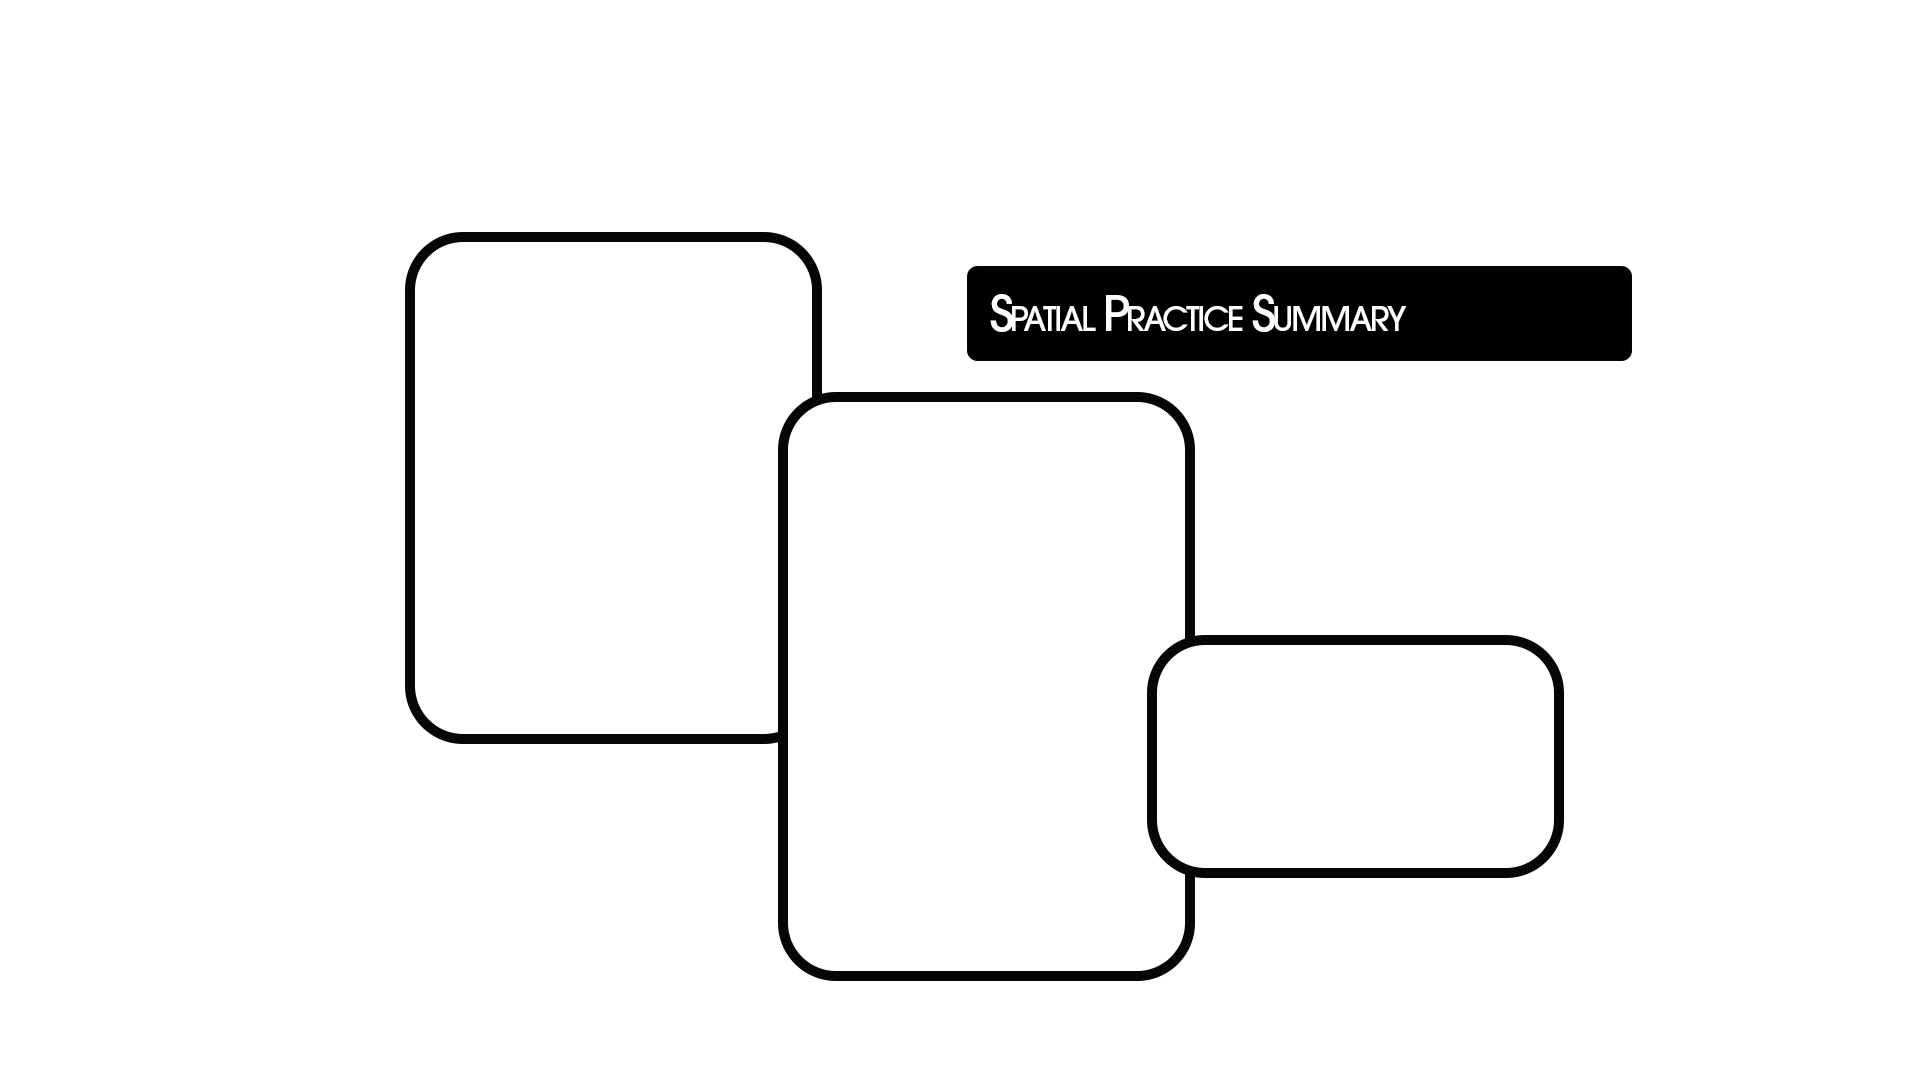
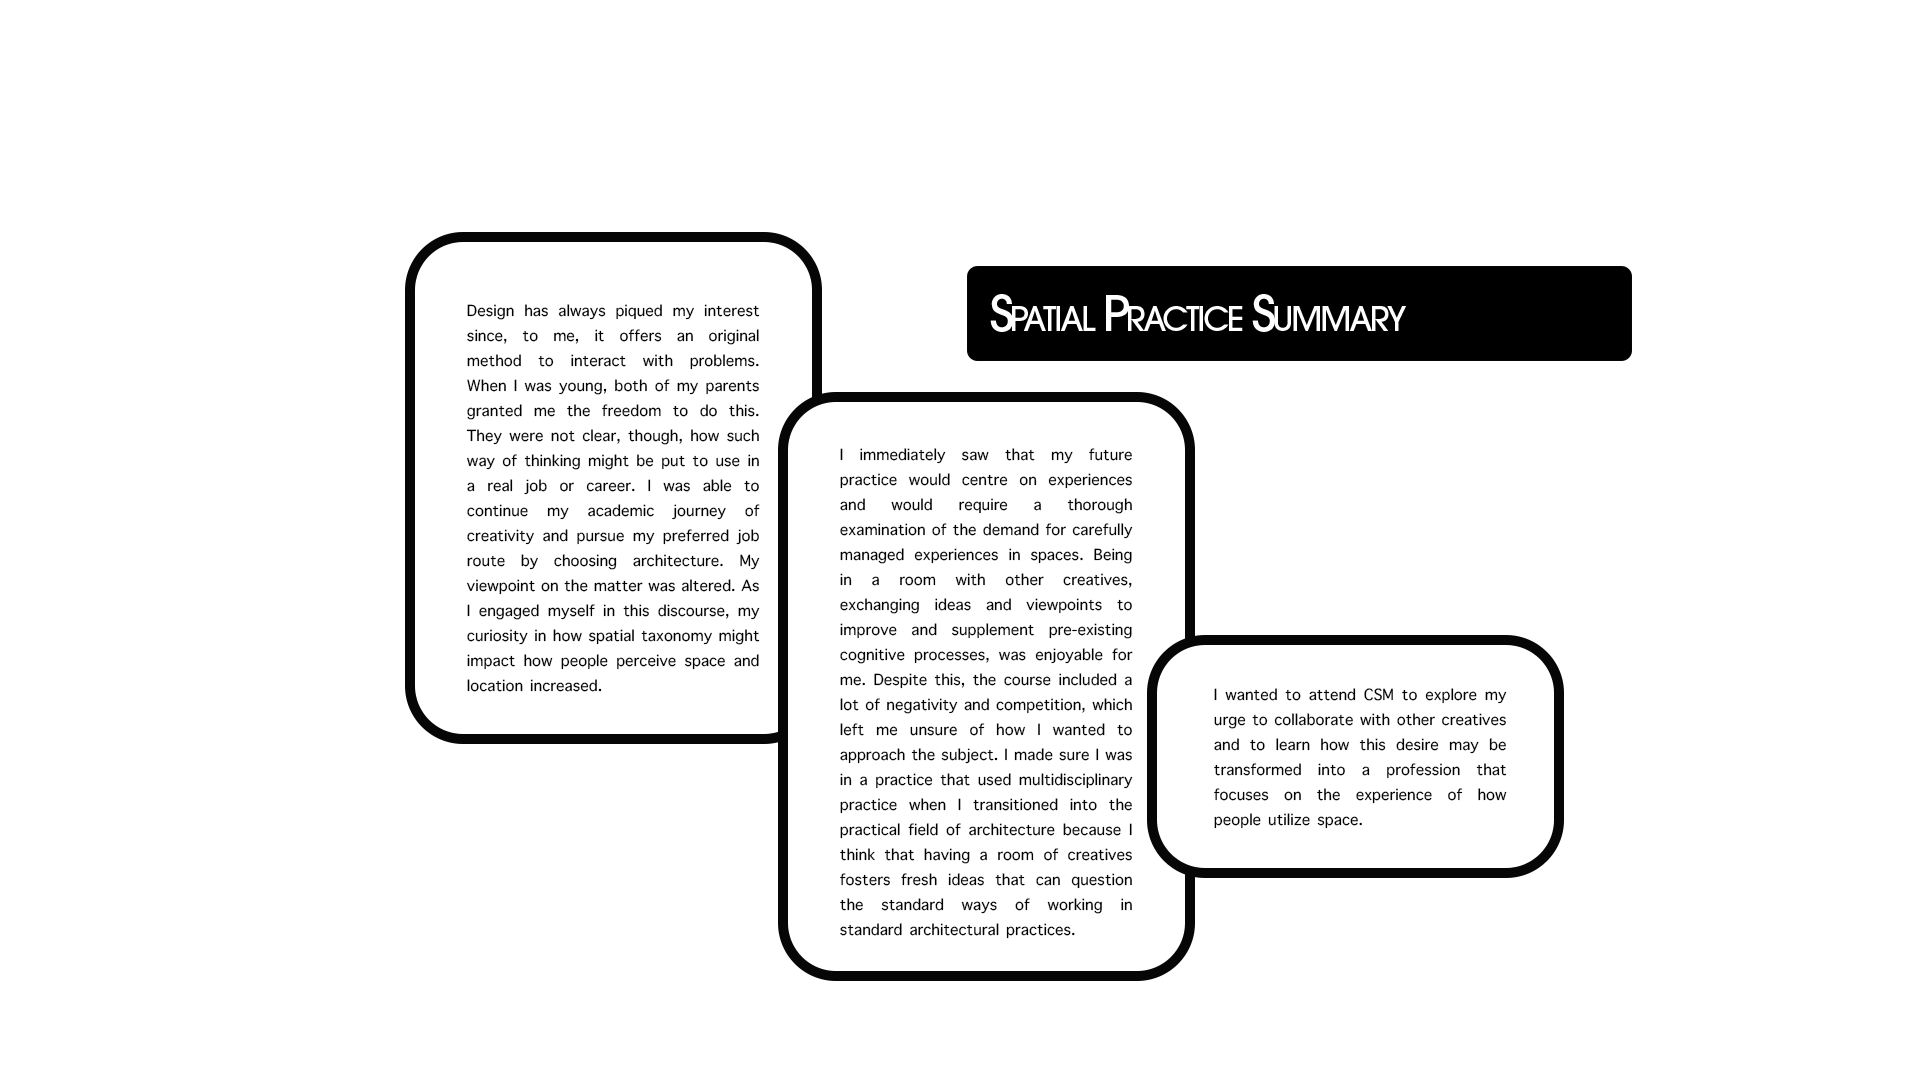
New images with text added

diff --git a/src/components/tanzania/Breakdown.js b/src/components/tanzania/Breakdown.js
@@ -8,12 +8,15 @@ function Breakdown() {
         <div className="leftSide-names">
           <div className="joseph-container">
             <h3 className="umName">joseph mbowe</h3>
+            <p>Joseph is the organizations founder. Being a resident of Arusha who has spent his entire life there, he has seen firsthand the difficulties in providing education to the community and has made it his goal to guarantee that more kids have access to education.</p>
           </div>
           <div className="joseph-container">
-            <h3 className="umName">joseph mbowe</h3>
+            <h3 className="umName">qaim rajwani</h3>
+            <p>The coordinator of the programme is Qaim. From helping develop the school curriculum to growing the overall business, his responsibility is to make sure that the organisation is operating efficiently and that the goals of capacity building and community development are at the forefront of every outcome.</p>
           </div>
           <div className="joseph-container">
-            <h3 className="umName">joseph mbowe</h3>
+            <h3 className="umName">innocent (the farmer)</h3>
+            <p>The permaculture farms are managed by the farmer, Innocent. He is among the community pioneers who have received training in growing food for the school and certain residents.</p>
           </div>
         </div>
         <div className="umImg-container">
@@ -21,13 +24,16 @@ function Breakdown() {
         </div>
         <div className="leftSide-names right-side">
           <div className="joseph-container">
-            <h3 className="umName">qaim</h3>
+            <h3 className="umName">teacher jessica</h3>
+            <p>The two schools that Umoja Maono operates in Sinoni are led by teachers Jessica and Joana. They are a result of capacity building once more. In order to grow the NGO operation, they are now training teachers in the hope that their knowledge can then be dispersed around the village.</p>
           </div>
           <div className="joseph-container">
-            <h3 className="umName">qaim</h3>
+            <h3 className="umName">sara stojkanovic</h3>
+            <p>Sara is the lead architect. She works to make sure local builders have access to the use of sustainable building techniques. Her motivation centres on collaborating with the community in a way that enables them to learn and develop things on their own without assistance from outsiders. She wants to provide local builders with knowledge about cutting-edge materials so they can be independent decision-makers.Sara is the lead architect. She works to make sure local builders have access to the use of sustainable building techniques. Her motivation centres on collaborating with the community in a way that enables them to learn and develop things on their own without assistance from outsiders. She wants to provide local builders with knowledge about cutting-edge materials so they can be independent decision-makers.</p>
           </div>
           <div className="joseph-container">
-            <h3 className="umName">qaim</h3>
+            <h3 className="umName">chief elebereki</h3>
+            <p>The chiefs serve as a symbol of the linkages to the Maasai communities in Oldonyasambu. My project was completed here. They were the backbones of their towns, and they welcomed us into their bomas to learn about their way of life. By doing so, we were able to understand more about what they needed and how we might best assist them.</p>
           </div>
         </div>
       </div>

diff --git a/src/components/tanzania/Chapter2.js b/src/components/tanzania/Chapter2.js
@@ -13,11 +13,11 @@ import chiefMeet from '../../images/tanzaniaImages/chiefMeet.png'
 import Concrete from '../../images/tanzaniaImages/Concrete.png'
 import highfive from '../../images/tanzaniaImages/highfive.png'
 import chiefDrawing from '../../images/tanzaniaImages/chiefDrawing.png'
-import bubblesOverview from '../../images/tanzaniaImages/bubblesOverview.png'
-import bubblesFindings from '../../images/tanzaniaImages/bubblesFindings.png'
-import interviewBubble from '../../images/tanzaniaImages/interviewBubble.png'
-import chiefDrawingBubble from '../../images/tanzaniaImages/chiefDrawingBubble.png'
-import chiefDrawingBubble2 from '../../images/tanzaniaImages/chiefDrawingBubble2.png'
+import projectOverview from '../../images/tanzaniaImages/projectOverview.png'
+import findings from '../../images/tanzaniaImages/findings.png'
+import interview from '../../images/tanzaniaImages/interview.png'
+import whyConcrete from '../../images/tanzaniaImages/whyConcrete.png'
+import chiefDrawing2 from '../../images/tanzaniaImages/chiefDrawing2.png'
 import elebereki from '../../images/tanzaniaVideos/elebereki.mov'
 
 
@@ -125,7 +125,7 @@ function Chapter2() {
         <UmVideo content={meetingMaasai} />
       </section>
       <section className="sections">
-        <Diagram content={bubblesFindings} />
+        <Diagram content={findings} />
       </section>
       <section className="sections">
         <UmImage content={siteAnalysis}  />
@@ -140,13 +140,13 @@ function Chapter2() {
         <School />
       </section>
       <section className="sections">
-        <Diagram content={interviewBubble} />
+        <Diagram content={interview} />
       </section>
       <section className="sections">
         <UmImage content={Concrete} />
       </section>
       <section className="sections">
-        <Diagram content={chiefDrawingBubble} />
+        <Diagram content={whyConcrete} />
       </section>
       <section className="sections">
         <UmImage content={highfive} />
@@ -155,7 +155,7 @@ function Chapter2() {
         <UmVideo content={elebereki} />
       </section>
       <section className="sections">
-        <Diagram content={chiefDrawingBubble2} />
+        <Diagram content={chiefDrawing2} />
       </section>
       <section className="sections">
         <UmImage content={chiefDrawing} />
@@ -167,7 +167,7 @@ function Chapter2() {
         <UmCarosel content={modernBoma} />
       </section>
       <section className="sections">
-        <Diagram content={bubblesOverview} />
+        <Diagram content={projectOverview} />
       </section>
     </>
   )

diff --git a/src/components/Playground.js b/src/components/Playground.js
@@ -1,0 +1,17 @@
+import React from 'react' // import NavBar from '../navBar/nB-index'
+
+// ' needs to be added to Umoja Maono's offices
+function playground() {
+  return (
+    <>
+      <div className='parent'>
+        <h2>Come On</h2>
+        <p>Throughout the duration of my placement I was mainly working in isolation. The NGO was rather small and in the process of developing. This meant that aside from the volunteers the rest of the main figure heads still had other obligations and jobs to attend too. This meant that I was left to my own accord when it came to planning trips and proposing strategies for engagement with the community. Despite the NGO still being established, they had cultivated a strong network of people within the community that have identified themselves as pillars, these people are ready to be trained or train in order to preserve and elongate the existing knowledge.</p>
+        {/* <div className='child'>
+        Throughout the duration of my placement I was mainly working in isolation. The NGO was rather small and in the process of developing. This meant that aside from the volunteers the rest of the main figure heads still had other obligations and jobs to attend too. This meant that I was left to my own accord when it came to planning trips and proposing strategies for engagement with the community. Despite the NGO still being established, they had cultivated a strong network of people within the community that have identified themselves as pillars, these people are ready to be trained or train in order to preserve and elongate the existing knowledge.
+        </div> */}
+      </div>
+    </>
+  )
+}
+export default playground

diff --git a/src/components/tanzania/Arusha.js b/src/components/tanzania/Arusha.js
@@ -18,8 +18,8 @@ import AmothersPrayer from '../../images/tanzaniaVideos/mothersPrayer.mov'
 import convoAtTheHub from '../../images/tanzaniaVideos/convoAtTheHub2.mov'
 import Initiation from '../../images/tanzaniaVideos/initiation.mov'
 
-import bubblesWho from '../../images/tanzaniaImages/bubblesWho.png'
-import bubblesRoles from '../../images/tanzaniaImages/bubblesRoles.png'
+import questions from '../../images/tanzaniaImages/questions.png'
+import ngoRoles from '../../images/tanzaniaImages/ngoRoles.png'
 import UmTeam from '../../images/tanzaniaImages/umTeam.png'
 import UmSchool from '../../images/tanzaniaImages/umSchool.png'
 
@@ -36,7 +36,7 @@ function CreativeRetrofit() {
             <UmVideo content={AmothersPrayer} />
           </section>
           <section className="sections">
-            <Diagram content={bubblesWho} />
+            <Diagram content={questions} />
           </section>
           <section className="sections">
             <Breakdown />
@@ -63,7 +63,7 @@ function CreativeRetrofit() {
             <UmPlayground />
           </section>
           <section className="sections">
-            <Diagram content={bubblesRoles} />
+            <Diagram content={ngoRoles} />
           </section>
           <section className="sections">
             <UmVideo content={convoAtTheHub}/>

diff --git a/src/styles/tanzania/chapter1.scss b/src/styles/tanzania/chapter1.scss
@@ -38,7 +38,12 @@ html{
     height: 100vh;
     width: 100%;
     display: flex;
+    justify-content: center;
     align-items: center;
+    // padding: 2%;
+    img{
+    //  height: 100%; 
+    }
   }
 
   .breakdown-container{
@@ -50,7 +55,19 @@ html{
     display: flex;
     justify-content: center;
     align-items: center;
+    font-size: 0.7em;
   }
+
+  .joseph-container{
+    padding: 0 5%;
+  }
+
+  .umName{
+    font-size: 1.2em;
+    font-weight: 500;
+    letter-spacing: -0.1em;
+  }
+
 
   .umImg-container{
     max-width: 60%;
@@ -135,13 +152,15 @@ html{
 
   .umTimetable-container{
     width: 70%;
+    // height: 90%;
     display: flex;
     align-items: center;
     justify-content: center; 
     img{
-        height: 70%;
-        width: 70%;
-        object-fit: contain;
+        padding: 10%;
+        // height: 90vh;
+        // width: 70%;
+        // object-fit: contain;
     }   // top: 0%;
   }
 
@@ -250,6 +269,12 @@ html{
   }
 }
 
+.spatialbx1{
+  position: absolute;
+  right: 30%;
+  top: 27%;
+}
+
 
 
   @media (min-width: 81em) {
@@ -269,4 +294,16 @@ html{
          font-size: 14px;  
       }
     }
+
+    .umTimetable-container{
+     
+      img{
+          padding: 28%;
+          // width: 70%;
+          // object-fit: contain;
+      }   // top: 0%;
+    }
+
+
+
   }

diff --git a/src/components/tanzania/Chapter3.js b/src/components/tanzania/Chapter3.js
@@ -2,9 +2,10 @@ import React from 'react' // import NavBar from '../navBar/nB-index'
 import Diagram from './Diagram'
 import UmVideo from './UmVideo'
 import UmImage from './UmImage'
+import PostPlacement from './PostPlacement'
 
 import ChiefConfrontation from '../../images/tanzaniaVideos/ChiefConfrontation.mov'
-import bubblesRoles from '../../images/tanzaniaImages/bubblesRoles.png'
+import newMaasai from '../../images/tanzaniaImages/newMaasai.png'
 import entranceDiagram from '../../images/tanzaniaImages/entranceDiagram.png'
 import RoofStreetDiagram from '../../images/tanzaniaImages/RoofStreetDiagram.png'
 import SchoolSection from '../../images/tanzaniaImages/SchoolSection.png'
@@ -16,7 +17,7 @@ function Chapter3() {
   return (
     <>
       <section className="sections">
-        <Diagram content={bubblesRoles} />
+        <Diagram content={newMaasai} />
       </section>
       <section className="sections">
         <UmVideo content={ChiefConfrontation} />
@@ -39,9 +40,7 @@ function Chapter3() {
       <section className="sections">
         <Diagram content={ngoSize} />
       </section>
-      {/* <section className="sections">
-        <Diagram content={ngoSize} />
-      </section> */}
+      <PostPlacement />
     </>
   )
 }

diff --git a/src/App.js b/src/App.js
@@ -6,6 +6,8 @@ import PageScroll from './components/landingComponents/PageScroll'
 import WellnessCentre from './components/architecture/wellnessCentre/index'
 import CreativeRetrofit from './components/architecture/creativeRetrofit/index'
 import Arusha from './components/tanzania/Arusha'
+import Playground from './components/Playground'
+
 
 function App() {
   return (
@@ -16,6 +18,7 @@ function App() {
         <Route exact path="/architecture/wellnessCentre" component={WellnessCentre} />
         <Route exact path="/architecture/creativeRetrofit" component={CreativeRetrofit} />
         <Route exact path="/tanzania" component={Arusha} />
+        <Route exact path="/playground" component={Playground} />
       </Switch>
     </BrowserRouter>
     

diff --git a/src/components/tanzania/PostPlacement.js b/src/components/tanzania/PostPlacement.js
@@ -1,0 +1,20 @@
+import React from 'react' // import NavBar from '../navBar/nB-index'
+import Diagram from './Diagram'
+
+import projectImpact from '../../images/tanzaniaImages/projectImpact.png'
+import practiceImpact from '../../images/tanzaniaImages/practiceImpact.png'
+
+
+function PostPlacement() {
+  return (
+    <>
+      <section className="sections">
+        <Diagram content={projectImpact} />
+      </section>
+      <section className="sections">
+        <Diagram content={practiceImpact} />
+      </section>
+    </>
+  )
+}
+export default PostPlacement

diff --git a/src/styles/playground.scss b/src/styles/playground.scss
@@ -1,0 +1,20 @@
+body{
+    margin: 0;
+}
+
+.parent{
+    background-color: #23424A;
+    padding: 50px;
+
+    // width: 900px;
+    margin: 0 auto;
+    width: 80%;
+    color: white;
+    padding: 5em;
+}
+
+.child {
+    background-color: #38CFD9;
+    height: 250px;
+    width: 50%;
+}

diff --git a/src/components/tanzania/PrePlacement.js b/src/components/tanzania/PrePlacement.js
@@ -1,4 +1,4 @@
-import React from 'react' // import NavBar from '../navBar/nB-index'
+import React from 'react'
 import Diagram from './Diagram'
 
 import spatialPractice from '../../images/tanzaniaImages/spatialPracticeSummary.png'

diff --git a/src/styles/main.scss b/src/styles/main.scss
@@ -13,6 +13,8 @@
 @import '../styles/components/architecture/wellnessCentre/concept-strategy';
 @import '~bulma/bulma.sass';
 // @import './variables.scss';
+@import './playground.scss';
+
 
 // @import 'aos/dist/aos.css';
 
